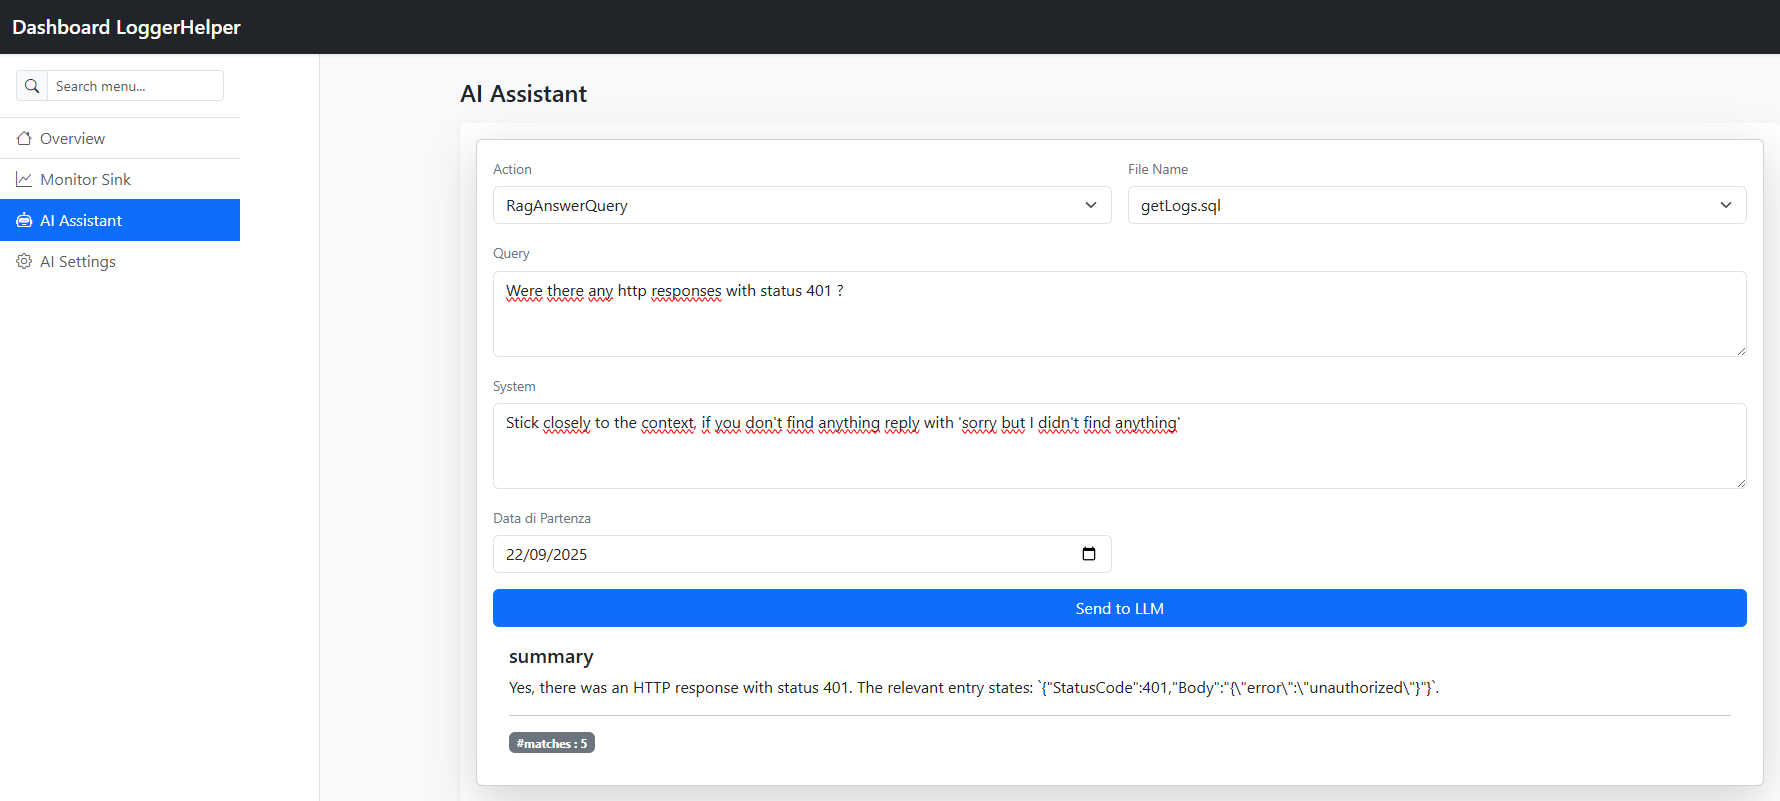
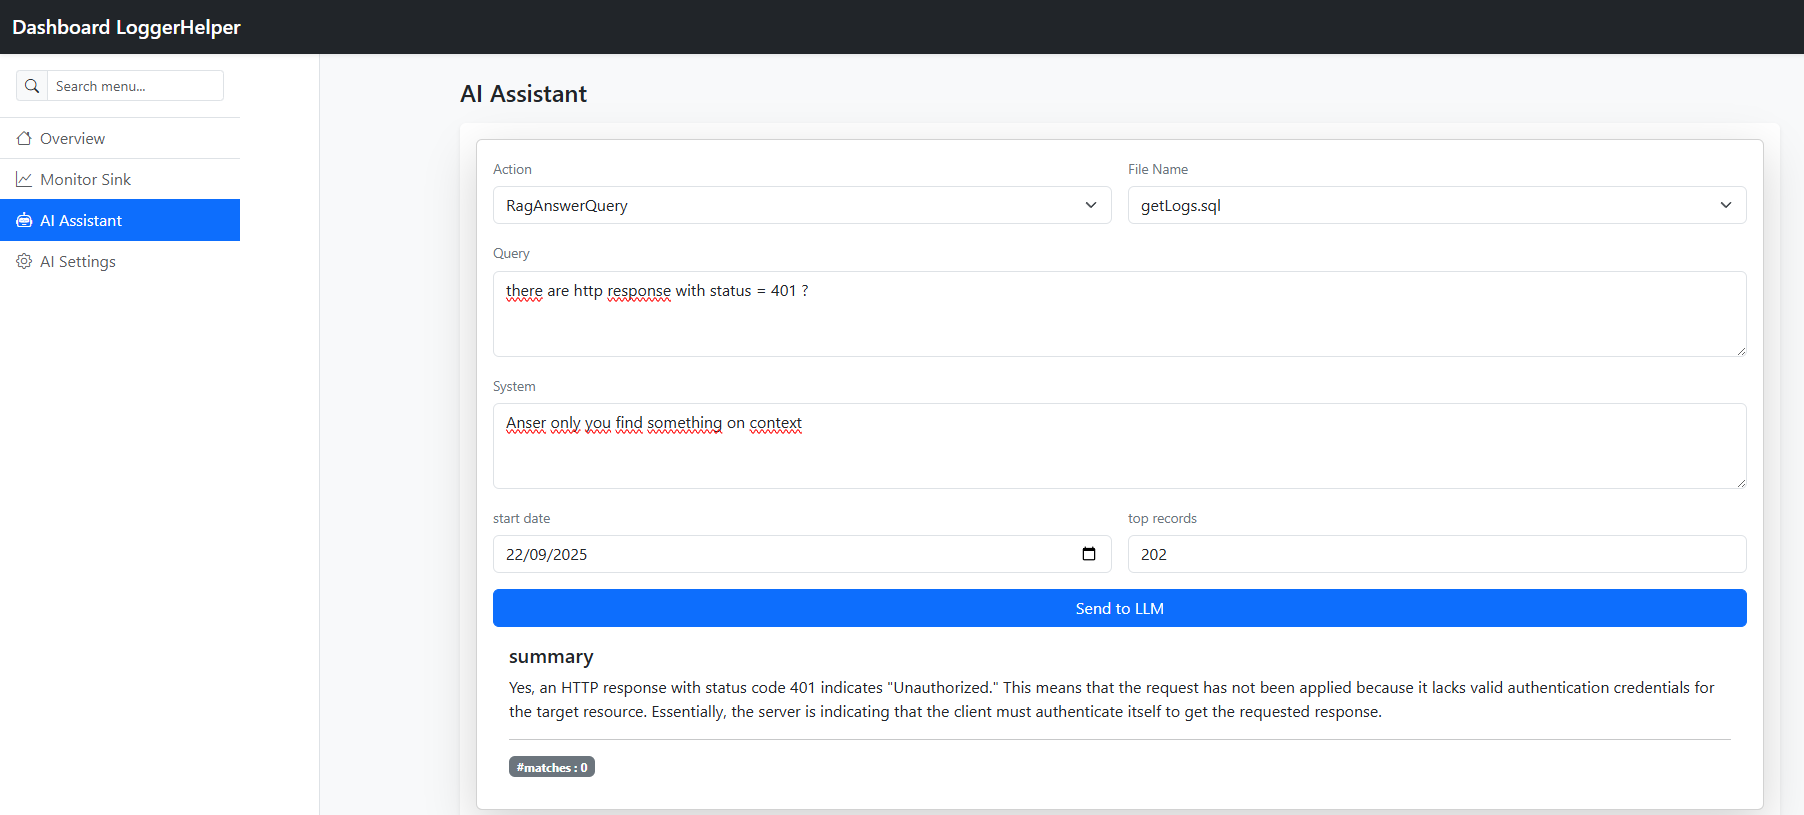
readme.md

diff --git a/CSharpEssentials.LoggerHelper.AI/readme.md b/CSharpEssentials.LoggerHelper.AI/readme.md
@@ -158,6 +158,27 @@ This example demonstrates how to use the RAG system to analyze recent log entrie
 
 The system will execute the `getlogs.sql` query, retrieve the relevant log entries, and use that data as context to generate a precise answer to your question.
 
+---
+
+### AI-Powered Log Analysis with RAG 🤖
+
+A key benefit of the **AI Assistant** is its ability to perform **Retrieval-Augmented Generation (RAG)** on your application's logs, saving operators from having to manually query the database. The LLM can analyze log data provided by a SQL query to answer complex questions instantly.
+
+#### **Example: Troubleshooting an Error**
+
+Let's illustrate with an example. An operator needs to check if a specific HTTP error occurred in the logs.
+
+1.  **Context from SQL Query**:
+    The system uses a pre-saved query, like `getlogs.sql`, to retrieve a specific set of log records. The query includes parameters for the start date and the maximum number of records, allowing the operator to define the search scope directly from the dashboard.
+
+    
+2.  **LLM Analysis**:
+    The operator inputs a natural language query like "**Are there any HTTP responses with status 401?**" The LLM then receives the results from the executed SQL query as its context. By analyzing this context, the LLM provides a precise and detailed answer, summarizing the findings without the operator ever needing to write SQL or connect to the database.
+
+3.  **Efficiency**:
+    This process is extremely efficient. The more logs you write, the more powerful the LLM becomes in providing deep insights into your application's behavior. It automates the task of searching through vast amounts of log data, allowing your team to focus on resolving issues faster.
+
+This feature is a powerful demonstration of how `CSharpEssentials.LoggerHelper.AI` can transform raw log data into actionable insights, improving diagnostic speed and overall operational efficiency.
 -----
 
 
